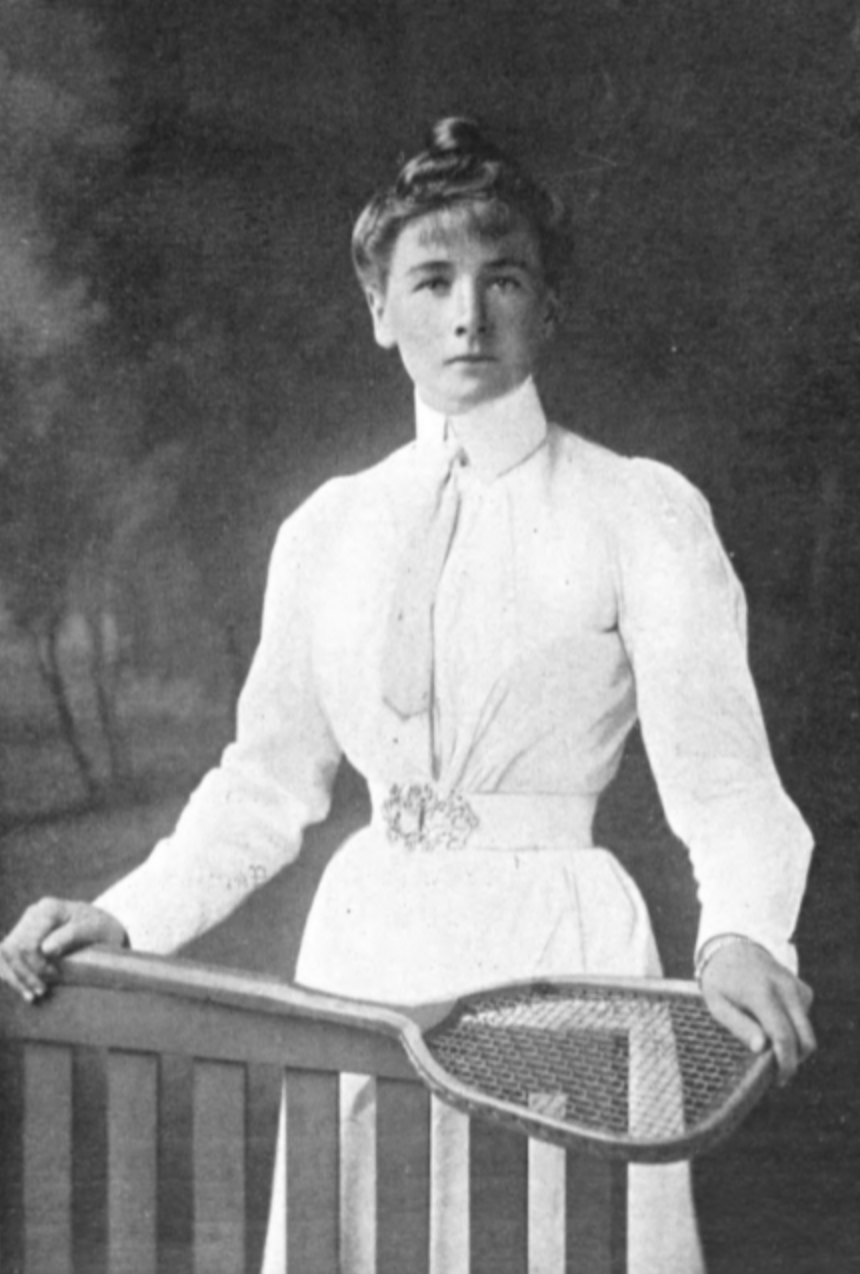
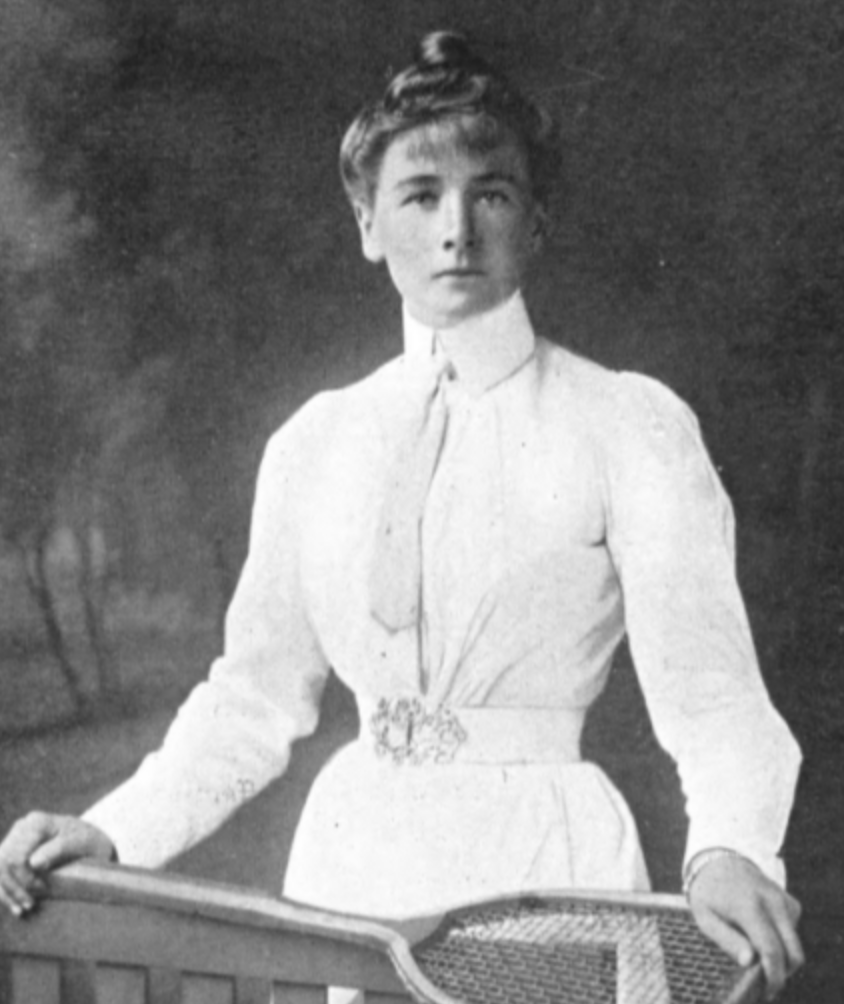
added names on photos

diff --git a/index.html b/index.html
@@ -157,6 +157,7 @@
                     <!-- image -->
                     <div class="col-xl-7 col-lg-7" style="height: 70vh">
                         <img class="img-fluid center" src="assets/img/johnnyweissmuller.png" alt="" />
+                        <div class="bottom-right text-white">Johnny Weissmuller</div>
                     </div>
                 </div>
             </div>
@@ -361,6 +362,7 @@
                     <!-- text -->
                     <div class="col-xl-8 col-lg-7">
                         <div class="featured-text text-center text-lg-left">
+                            <h3  class="text-white mb-4">Fun Fact:</h3>
                             <h4  class="text-white mb-4">Women have only been allowed to compete in the Olympics since 1900.</h4>
                             <p class="text-white-50 mb-0">The first Olympic Games to feature female athletes was the 1900 Games in Paris. Hélène de Pourtalès of Switzerland became the first woman to compete at the Olympic Games and became the first female Olympic champion, as a member of the winning team in the first 1 to 2 ton sailing event on May 22, 1900.
                                 Briton Charlotte Cooper became the first female individual champion by winning the women's singles tennis competition on July 11. Tennis and golf were the only sports where women could compete in individual disciplines. 22 women competed at the 1900 Games, 2.2% of all the competitors.</p>
@@ -369,7 +371,8 @@
                     </div>
                     <!-- image -->
                     <div class="col-xl-4 col-lg-5">
-                        <img class="img-fluid center" src="assets/img/charlotte_cooper.png" alt="Charlotte Cooper" width="300" height="400" />
+                        <img class="img-fluid center" src="assets/img/charlotte_cooper.png" alt="Charlotte Cooper" width="400" height="500" />
+                        <div class="bottom-right text-white">Charlotte Cooper</div>
                     </div>
                 </div>
             </div>
@@ -440,6 +443,7 @@
                     <!-- text -->
                     <div class="col-xl-8 col-lg-7">
                         <div class="featured-text text-center text-lg-left">
+                            <h3  class="text-white mb-4">Fun Fact:</h3>
                             <h4  class="text-white mb-4">Imagine being an Olympian at 10.</h4>
                             <p class="text-white-50 mb-0">The youngest Olympian in the modern era is Greek gymnast Dimitrios Loundras, who competed in the 1896
                                 Athens Olympics at the age of 10. At age 13, springboard diver Marjorie Gestring is the youngest female
@@ -451,6 +455,7 @@
                     <!-- image -->
                     <div class="col-xl-4 col-lg-5">
                         <img class="img-fluid center" src="assets/img/DimitriosLoundras.png" alt="Dimitrios Loundras"/>
+                        <div class="bottom-right text-white">Dimitrios Loundras</div>
                     </div>
                 </div>
             </div>

diff --git a/css/styles.css b/css/styles.css
@@ -9939,6 +9939,11 @@ button.bg-black:focus {
   color: #fff !important;
 }
 
+.text-white-background {
+  color: #fff !important;
+  background-color: dimgrey;
+}
+
 .text-primary {
   color: #393939 !important;
 }
@@ -10379,4 +10384,11 @@ body {
 
 .footer {
   padding: 5rem 0;
+}
+
+/* Bottom right text */
+.bottom-right {
+  position: absolute;
+  bottom: 8px;
+  right: 16px;
 }
